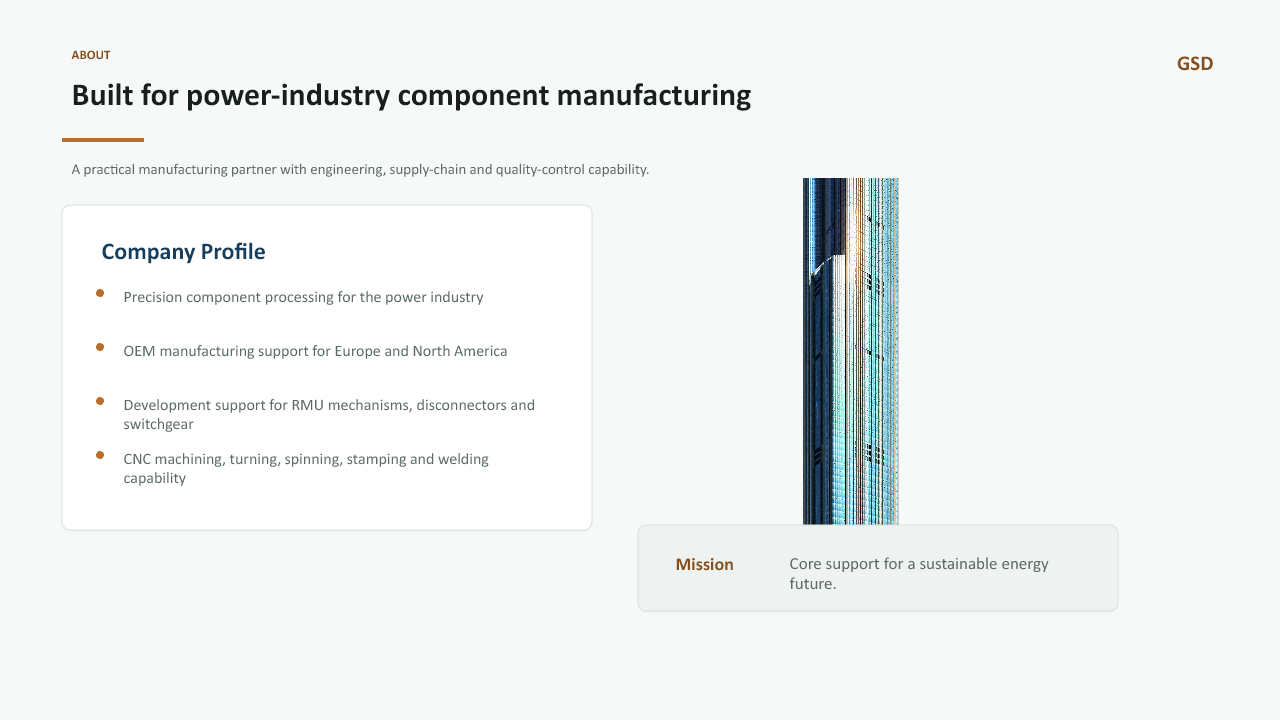
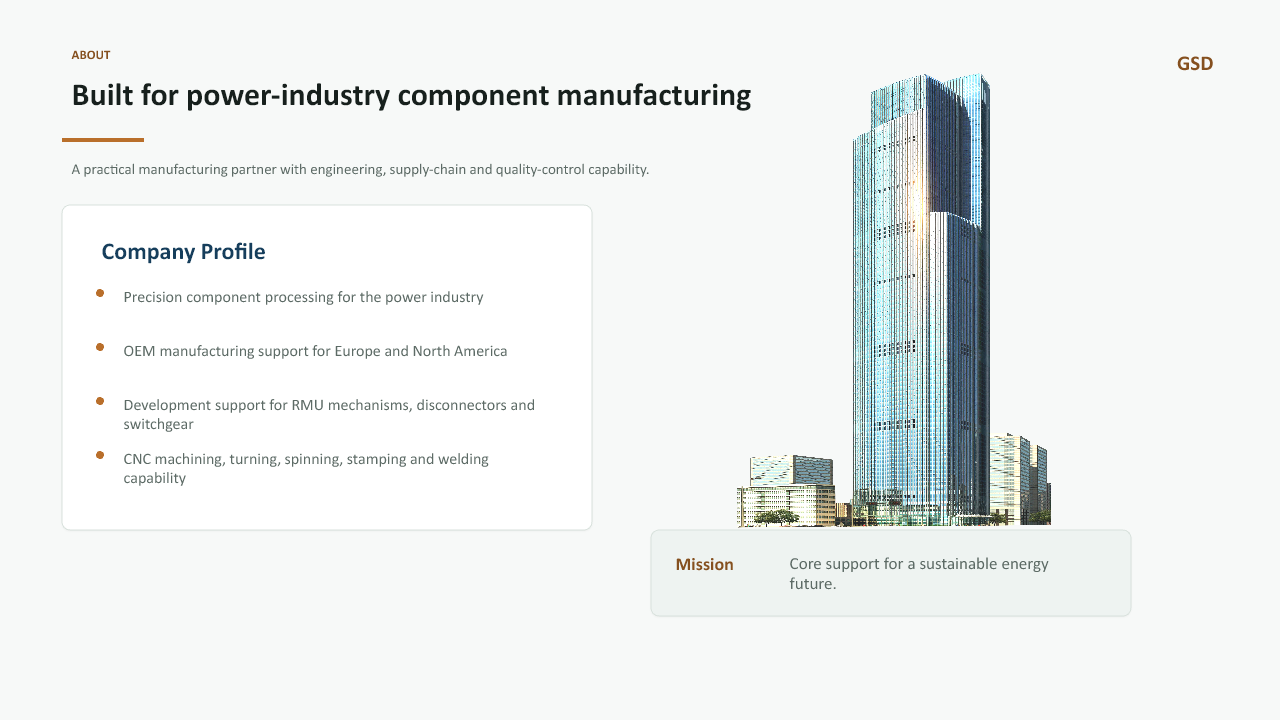
Add full slide previews

Changed region(s): [[0.5625, 0.0917, 0.8438, 0.7333]]

diff --git a/index.html b/index.html
@@ -82,32 +82,44 @@
         </div>
         <div class="capability-grid">
             <article>
-                <img src="assets/slides/stamping-welding.png" alt="Golden Steed stamping and welding equipment">
+                <button class="slide-preview" type="button" aria-label="View full Stamping and Welding slide">
+                    <img src="assets/slides/stamping-welding.png" alt="Golden Steed stamping and welding equipment">
+                </button>
                 <h3>Stamping &amp; Welding</h3>
                 <p>315T and 400T stamping capacity, blanking, drawing, flattening, MIG, MAG and TIG welding for structural components.</p>
             </article>
             <article>
-                <img src="assets/slides/cnc.png" alt="Golden Steed CNC machining and turning equipment">
+                <button class="slide-preview" type="button" aria-label="View full CNC Machining and Turning slide">
+                    <img src="assets/slides/cnc.png" alt="Golden Steed CNC machining and turning equipment">
+                </button>
                 <h3>CNC Machining &amp; Turning</h3>
                 <p>Machining centers, CNC turning and precision cutting support copper, aluminum and custom mechanical components.</p>
             </article>
             <article>
-                <img src="assets/slides/busbar.png" alt="Golden Steed copper busbar manufacturing">
+                <button class="slide-preview" type="button" aria-label="View full Copper Busbar slide">
+                    <img src="assets/slides/busbar.png" alt="Golden Steed copper busbar manufacturing">
+                </button>
                 <h3>Copper Busbar</h3>
                 <p>Three-dimensional copper busbar processing with automated positioning, bending and supporting production equipment.</p>
             </article>
             <article>
-                <img src="assets/slides/harness.png" alt="Golden Steed electrical harness assembly">
+                <button class="slide-preview" type="button" aria-label="View full Electrical Harness Assembly slide">
+                    <img src="assets/slides/harness.png" alt="Golden Steed electrical harness assembly">
+                </button>
                 <h3>Electrical Harness Assembly</h3>
                 <p>Harness preparation, welding, crimping and testing for VCB mechanisms and electrical control assemblies.</p>
             </article>
             <article>
-                <img src="assets/slides/cabinet.png" alt="Golden Steed cabinet assembly and testing">
+                <button class="slide-preview" type="button" aria-label="View full Cabinet Assembly and Testing slide">
+                    <img src="assets/slides/cabinet.png" alt="Golden Steed cabinet assembly and testing">
+                </button>
                 <h3>Cabinet Assembly &amp; Testing</h3>
                 <p>OEM cabinet assembly for high-voltage, medium-voltage, control, intelligent, inverter and customized systems.</p>
             </article>
             <article>
-                <img src="assets/slides/measurement.png" alt="Golden Steed measuring equipment">
+                <button class="slide-preview" type="button" aria-label="View full Measuring Equipment slide">
+                    <img src="assets/slides/measurement.png" alt="Golden Steed measuring equipment">
+                </button>
                 <h3>Measuring Equipment</h3>
                 <p>Automatic image measuring, profile and surface roughness equipment support consistent inspection and quality control.</p>
             </article>
@@ -170,6 +182,13 @@
         </div>
     </section>
 </main>
+
+<dialog id="imageDialog" class="image-dialog" aria-label="Full slide preview">
+    <div class="image-dialog-panel">
+        <button class="dialog-close" type="button" aria-label="Close full slide preview">×</button>
+        <img src="" alt="">
+    </div>
+</dialog>
 
 <footer class="site-footer">
     <span>Golden Steed Technology</span>

diff --git a/styles.css b/styles.css
@@ -36,6 +36,11 @@ img {
     max-width: 100%;
 }
 
+button {
+    font: inherit;
+    cursor: pointer;
+}
+
 .site-header {
     position: sticky;
     top: 0;
@@ -285,10 +290,33 @@ h3 {
     overflow: hidden;
 }
 
-.capability-grid img {
-    height: 210px;
-    object-fit: cover;
+.slide-preview {
+    display: block;
+    width: 100%;
+    padding: 0;
+    border: 0;
+    background: var(--paper);
     border-radius: 8px 8px 0 0;
+    overflow: hidden;
+}
+
+.slide-preview:hover img,
+.slide-preview:focus-visible img {
+    transform: scale(1.015);
+}
+
+.slide-preview:focus-visible {
+    outline: 3px solid rgba(185, 111, 43, 0.42);
+    outline-offset: -3px;
+}
+
+.capability-grid img {
+    aspect-ratio: 16 / 9;
+    height: auto;
+    object-fit: contain;
+    background: var(--paper);
+    border-radius: 8px 8px 0 0;
+    transition: transform 180ms ease;
 }
 
 .capability-grid h3 {
@@ -391,6 +419,55 @@ h3 {
     padding: 28px 5vw;
     color: rgba(255, 255, 255, 0.78);
     background: var(--ink);
+}
+
+.image-dialog {
+    width: min(1180px, calc(100vw - 36px));
+    max-width: none;
+    max-height: none;
+    padding: 0;
+    border: 0;
+    background: transparent;
+}
+
+.image-dialog::backdrop {
+    background: rgba(23, 32, 29, 0.72);
+    backdrop-filter: blur(6px);
+}
+
+.image-dialog-panel {
+    position: relative;
+    padding: 14px;
+    border: 1px solid var(--line);
+    border-radius: 8px;
+    background: var(--white);
+    box-shadow: 0 24px 72px rgba(0, 0, 0, 0.28);
+}
+
+.image-dialog img {
+    width: 100%;
+    max-height: calc(100vh - 92px);
+    object-fit: contain;
+    border-radius: 6px;
+    background: var(--paper);
+}
+
+.dialog-close {
+    position: absolute;
+    top: 24px;
+    right: 24px;
+    z-index: 2;
+    display: grid;
+    place-items: center;
+    width: 38px;
+    height: 38px;
+    padding: 0;
+    color: var(--white);
+    border: 1px solid rgba(255, 255, 255, 0.32);
+    border-radius: 50%;
+    background: var(--ink);
+    font-size: 26px;
+    line-height: 1;
 }
 
 @media (max-width: 920px) {

diff --git a/script.js b/script.js
@@ -12,3 +12,26 @@ siteNav.querySelectorAll("a").forEach((link) => {
         menuButton.setAttribute("aria-expanded", "false");
     });
 });
+
+const imageDialog = document.querySelector("#imageDialog");
+const dialogImage = imageDialog.querySelector("img");
+const dialogClose = imageDialog.querySelector(".dialog-close");
+
+document.querySelectorAll(".slide-preview").forEach((button) => {
+    button.addEventListener("click", () => {
+        const image = button.querySelector("img");
+        dialogImage.src = image.currentSrc || image.src;
+        dialogImage.alt = image.alt;
+        imageDialog.showModal();
+    });
+});
+
+dialogClose.addEventListener("click", () => {
+    imageDialog.close();
+});
+
+imageDialog.addEventListener("click", (event) => {
+    if (event.target === imageDialog) {
+        imageDialog.close();
+    }
+});
